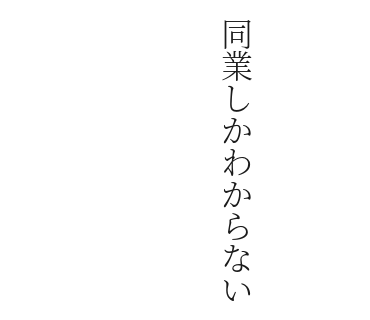
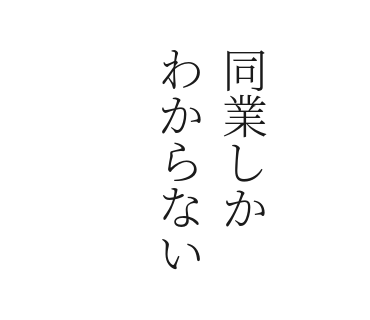
14番と15番のレイアウトを修正
- 14「同業しかわからない」: 1列9文字の細長い縦書きが読みづらかったため
  「同業しか」「わからない」の2列に分割。縦組みなので右→左の順に配置し、
  空いた幅でフォントを32→46に拡大した
- 15「これ読める人は仲間」: 「これ読める人は」「仲間」の2行に分割し、
  「仲間」を血 #7B1E1E・58ptにして着地点を作った

render_vertical() が text にリストを受け取ると複数列を組めるようにした。
docs の手順書も新しい指定に更新済み。

diff --git a/gen_stickers.py b/gen_stickers.py
@@ -78,7 +78,20 @@ def render_run(runs, fkey, size, spacing=0, jitter=0, seedbase=0):
     return _crop(canvas)
 
 
-def render_vertical(text, fkey, size, color, line=1.02):
+def render_vertical(text, fkey, size, color, line=1.02, col_gap=14):
+    """text が list の場合は縦書き複数列。日本語の縦組みなので右→左の順に並べる。"""
+    if isinstance(text, (list, tuple)):
+        cols = [render_vertical(t, fkey, size, color, line) for t in text]
+        w = sum(c.width for c in cols) + col_gap * (len(cols) - 1)
+        h = max(c.height for c in cols)
+        canvas = Image.new("RGBA", (w, h), (0, 0, 0, 0))
+        x = w
+        for c in cols:                      # 先頭の列を一番右へ
+            x -= c.width
+            canvas.alpha_composite(c, (x, 0))
+            x -= col_gap
+        return canvas
+
     font = F(fkey, size)
     sw = stroke_for(size)
     pad = size + sw * 3
@@ -211,10 +224,11 @@ S = [
     {"text":"人間の消耗品です","font":"min_l","size":40,"color":SUMI,"spacing":3},
  ], "dy":30}),
  ("14_同業しかわからない", {"blocks":[
-    {"type":"vertical","text":"同業しかわからない","font":"min_l","size":32,"color":SUMI,"line":1.0},
+    {"type":"vertical","text":["同業しか","わからない"],"font":"min_l","size":46,"color":SUMI,"line":1.0},
  ]}),
  ("15_これ読める人は仲間", {"blocks":[
-    {"text":"これ読める人は仲間","font":"sans_l","size":36,"color":SUMI,"spacing":2},
+    {"text":"これ読める人は","font":"sans_l","size":38,"color":SUMI,"spacing":2},
+    {"text":"仲間","font":"sans_l","size":58,"color":CHI,"gap":10},
  ]}),
  ("16_明日も生きてたら会おう", {"blocks":[
     {"text":"明日も生きてたら","font":"min_l","size":38,"color":SUMI},
@@ -223,7 +237,7 @@ S = [
 ]
 # 縦書き2枚は右に寄せる
 S[11][1]["blocks"][0]["dx"] = 58
-S[13][1]["blocks"][0]["dx"] = 52
+S[13][1]["blocks"][0]["dx"] = 30   # 2列になった分、寄せ幅を控えめに
 
 mapping = []
 for i, (name, spec) in enumerate(S, 1):
